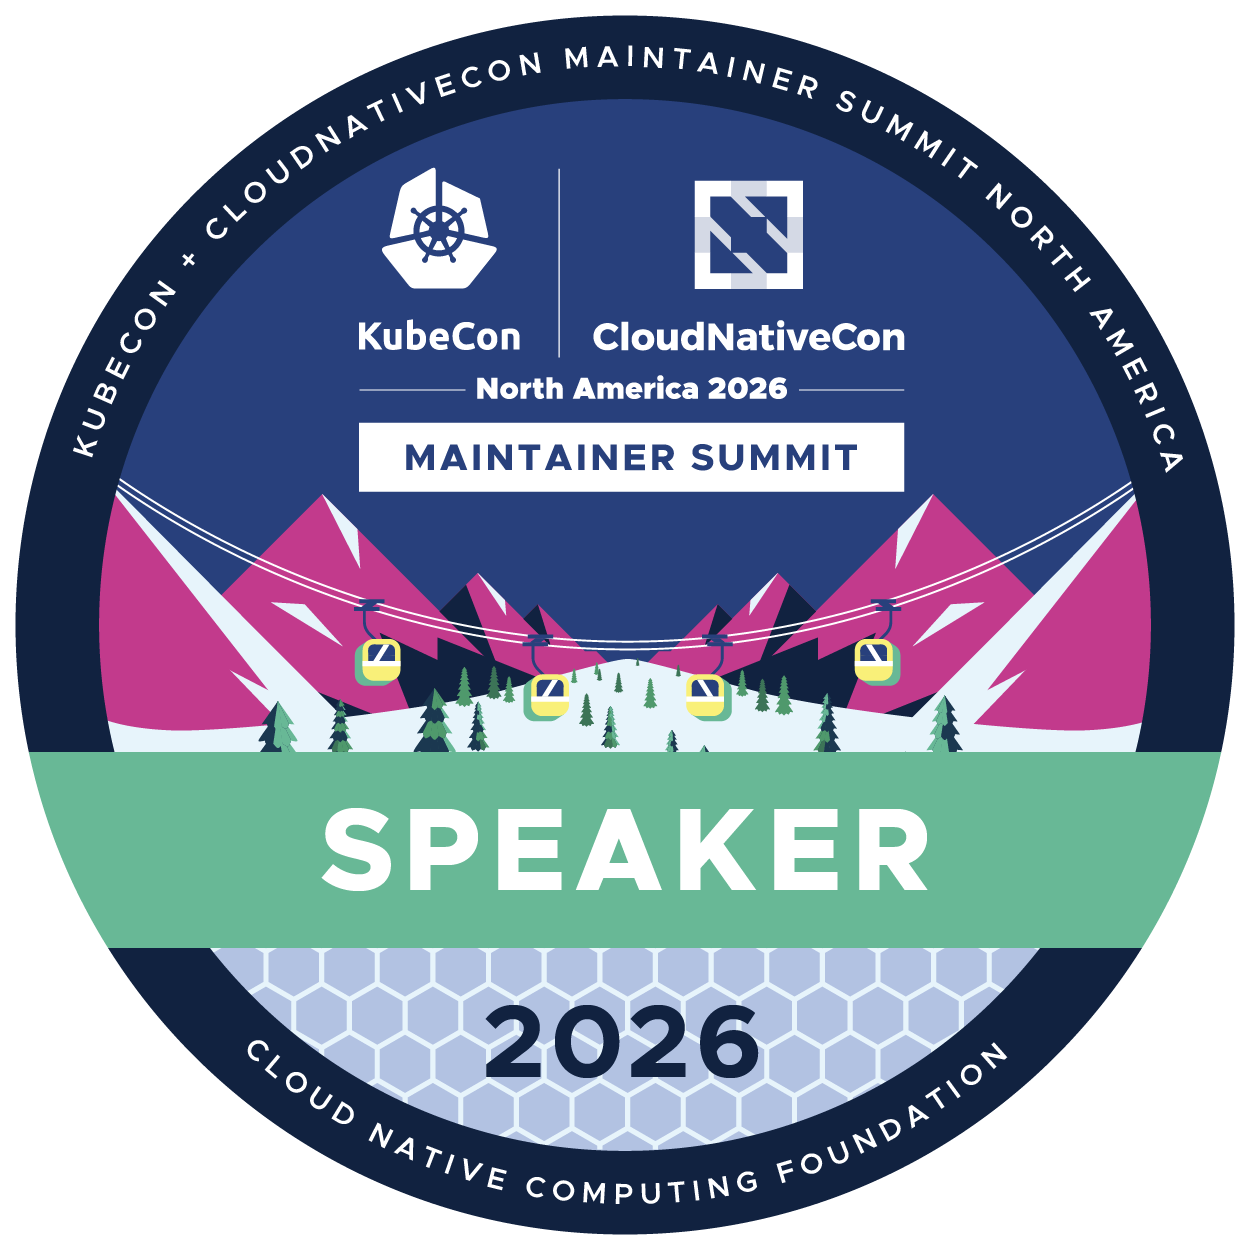
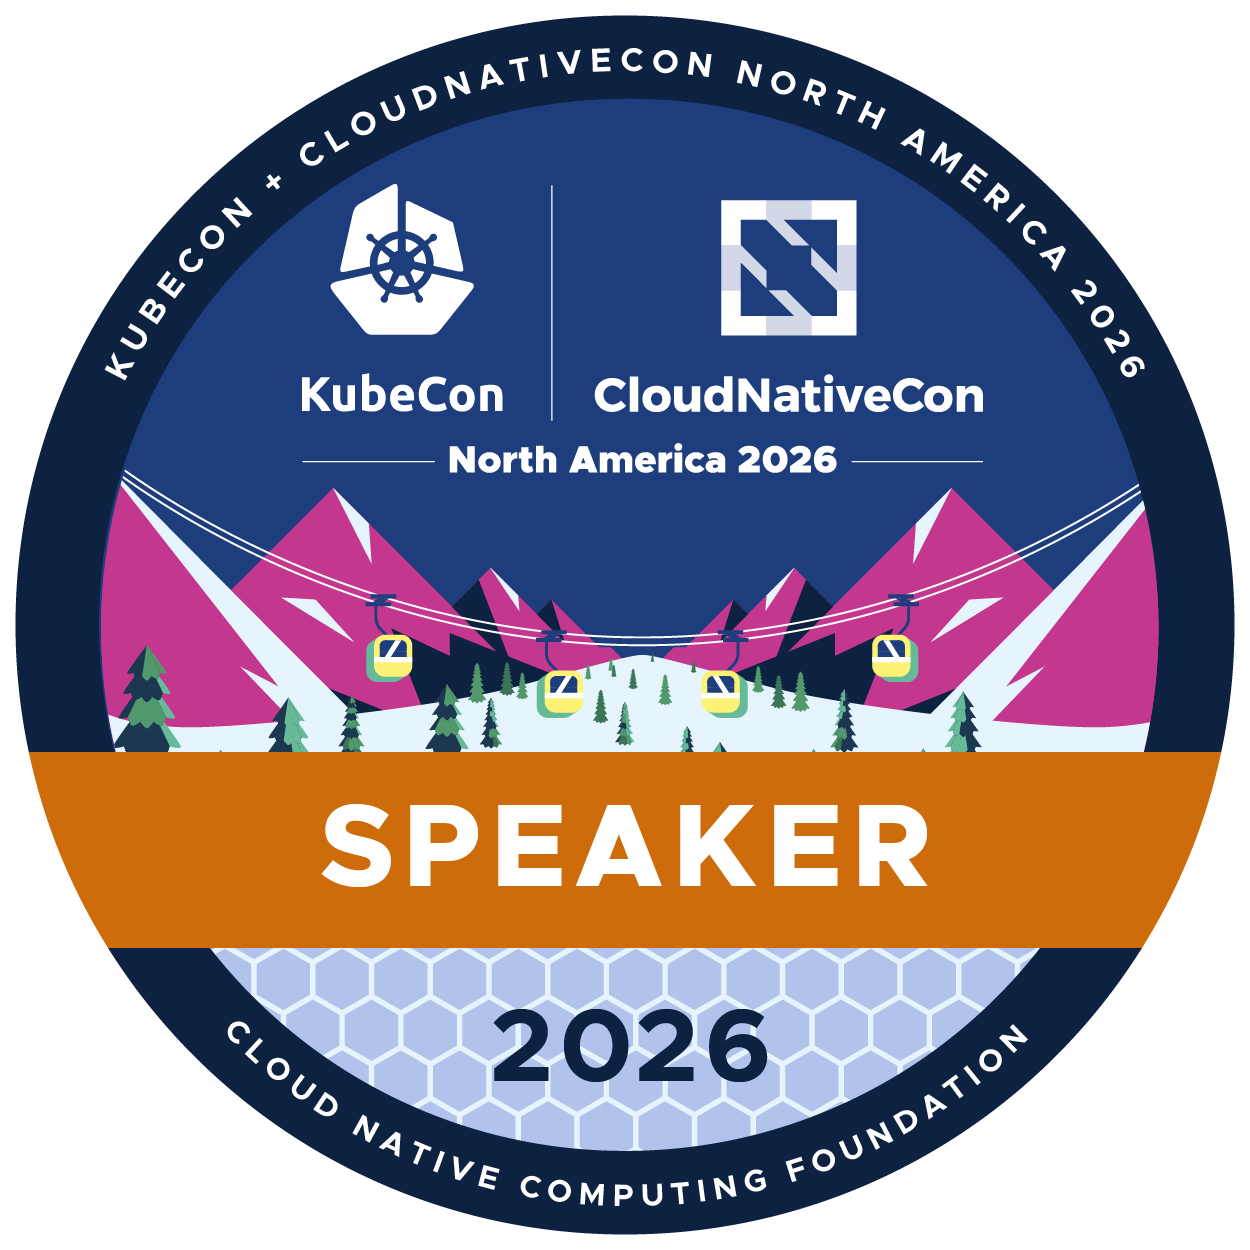
Add KubeCon NA 2026 speaker badge (#113)

Changed region(s): [[0.0, 0.0936, 0.9984, 0.9672], [0.0624, 0.0312, 0.6864, 0.3744]]

diff --git a/README.md b/README.md
@@ -6,7 +6,41 @@
 
 More info can be found in [my Community Activities](https://github.com/pacoxu/pacoxu/blob/master/CommunityActivities.md) and [my blogs](https://github.com/pacoxu/pacoxu/blob/master/blog-list.md)
 
-<a href="https://www.cncf.io/people/ambassadors/?_sft_lf-country=cn&amp;p=paco-xu&amp;_sf_s=paco+xu"><img alt="CNCF Ambassadors 2026-2028" src="images/cncf-ambassadors-2026-2028.png" width="120"></a> <img alt="KubeCon China 2024 Co-Chair" src="images/kubecon-china-2024-co-chair.png" width="120"> <img alt="KubeCon EU 2025 Track Chair" src="images/kubecon-eu-2025-track-chair.png" width="120"> <img alt="KubeCon NA 2024 Track Chair" src="images/kubecon-na-2024-track-chair.png" width="120"> <img alt="KubeCon NA 2026 Speaker" src="images/kubecon-na-2026-speaker.png" width="80"> <img alt="KubeCon China 2026 Speaker" src="images/kubecon-china-2026-speaker.png" width="80"> <img alt="KubeCon EU 2025 Speaker" src="images/kubecon-eu-2025-speaker.png" width="80"> <img alt="KubeCon China 2025 Speaker" src="images/kubecon-china-2025-speaker.png" width="80"> <img alt="KubeCon China 2024 Speaker" src="images/kubecon-china-2024-speaker.png" width="80"> <img alt="KubeCon EU 2024 Speaker" src="images/kubecon-eu-2024-speaker.png" width="80"> <img alt="KCD 2025 Hangzhou speaker" src="images/kcd-hangzhou-2025-speaker.png" width="80"> <img alt="KCD 2024 Shanghai speaker" src="images/kcd-shanghai-2024-speaker.png" width="80"> <img alt="KubeCon EU 2023 Speaker" src="images/kubecon-eu-2023-speaker.png" width="80"> <img alt="KubeCon China 2023 Speaker" src="images/kubecon-china-2023-speaker.png" width="80"> <img alt="KubeCon China 2021 Virtual Speaker" src="images/kubecon-china-2021-speaker.png" width="80"> <img alt="KubeCon Japan 2026 Program Committee" src="images/kubecon-japan-2026-program-committee.png" width="80"> <img alt="KubeCon EU 2026 Program Committee" src="images/kubecon-eu-2026-program-committee.png" width="80"> <img alt="KubeCon China 2025 Program Committee" src="images/kubecon-china-2025-program-committee.png" width="80"> <img alt="KubeCon NA 2025 Program Committee" src="images/kubecon-na-2025-program-committee.png" width="80"> <img alt="KubeCon Japan 2025 Program Committee" src="images/kubecon-japan-2025-program-committee.png" width="80"> <img alt="KubeCon EU 2024 Program Committee" src="images/kubecon-eu-2024-program-committee.png" width="80"> <img alt="KubeCon India 2024 Program Committee" src="images/kubecon-india-2024-program-committee.png" width="80"> <img alt="KubeCon China 2023 Program Committee" src="images/kubecon-china-2023-program-committee.png" width="80"> <img alt="KCD Chengdu 2022 Orginzer(Program Committee)" src="images/kcd-chengdu-2022-program-committee.png" width="80"> <img alt="LFAPAC Open Source Evangelist" src="images/lfapac-open-source-evangelist.png" width="80"> <img alt="LFC102: Inclusive Open Source Community Orientation" src="images/lfc102-community-orientation.png" width="80">
+<p>
+<a href="https://www.cncf.io/people/ambassadors/?_sft_lf-country=cn&amp;p=paco-xu&amp;_sf_s=paco+xu"><img alt="CNCF Ambassadors 2026-2028" src="images/cncf-ambassadors-2026-2028.png" width="120"></a>
+<img alt="KubeCon China 2024 Co-Chair" src="images/kubecon-china-2024-co-chair.png" width="120">
+<img alt="KubeCon EU 2025 Track Chair" src="images/kubecon-eu-2025-track-chair.png" width="120">
+<img alt="KubeCon NA 2024 Track Chair" src="images/kubecon-na-2024-track-chair.png" width="120">
+<img alt="KubeCon NA 2026 Speaker" src="images/kubecon-na-2026-speaker.png" width="80">
+<img alt="KubeCon China 2026 Speaker" src="images/kubecon-china-2026-speaker.png" width="80">
+<img alt="KubeCon Japan 2026 Program Committee" src="images/kubecon-japan-2026-program-committee.png" width="80">
+<img alt="KubeCon EU 2026 Program Committee" src="images/kubecon-eu-2026-program-committee.png" width="80">
+</p>
+
+<details>
+<summary>Other badges</summary>
+
+<p>
+<img alt="KubeCon EU 2025 Speaker" src="images/kubecon-eu-2025-speaker.png" width="80">
+<img alt="KubeCon China 2025 Speaker" src="images/kubecon-china-2025-speaker.png" width="80">
+<img alt="KubeCon China 2024 Speaker" src="images/kubecon-china-2024-speaker.png" width="80">
+<img alt="KubeCon EU 2024 Speaker" src="images/kubecon-eu-2024-speaker.png" width="80">
+<img alt="KCD 2025 Hangzhou speaker" src="images/kcd-hangzhou-2025-speaker.png" width="80">
+<img alt="KCD 2024 Shanghai speaker" src="images/kcd-shanghai-2024-speaker.png" width="80">
+<img alt="KubeCon EU 2023 Speaker" src="images/kubecon-eu-2023-speaker.png" width="80">
+<img alt="KubeCon China 2023 Speaker" src="images/kubecon-china-2023-speaker.png" width="80">
+<img alt="KubeCon China 2021 Virtual Speaker" src="images/kubecon-china-2021-speaker.png" width="80">
+<img alt="KubeCon China 2025 Program Committee" src="images/kubecon-china-2025-program-committee.png" width="80">
+<img alt="KubeCon NA 2025 Program Committee" src="images/kubecon-na-2025-program-committee.png" width="80">
+<img alt="KubeCon Japan 2025 Program Committee" src="images/kubecon-japan-2025-program-committee.png" width="80">
+<img alt="KubeCon EU 2024 Program Committee" src="images/kubecon-eu-2024-program-committee.png" width="80">
+<img alt="KubeCon India 2024 Program Committee" src="images/kubecon-india-2024-program-committee.png" width="80">
+<img alt="KubeCon China 2023 Program Committee" src="images/kubecon-china-2023-program-committee.png" width="80">
+<img alt="KCD Chengdu 2022 Orginzer(Program Committee)" src="images/kcd-chengdu-2022-program-committee.png" width="80">
+<img alt="LFAPAC Open Source Evangelist" src="images/lfapac-open-source-evangelist.png" width="80">
+<img alt="LFC102: Inclusive Open Source Community Orientation" src="images/lfc102-community-orientation.png" width="80">
+</p>
+</details>
 
 ## The repos I created
 

diff --git a/CommunityActivities.md b/CommunityActivities.md
@@ -9,7 +9,7 @@ Includes activities organization, speeches and Program Committees work.
     - 👥📋 KubeCon Japan(🇯🇵Yokohama) as Program Committee Member
     - 👥📋 [KubeCon + CloudNativeCon + OpenInfra Summit + PyTorch Conference China 2026](https://www.lfopensource.cn/kubecon-cloudnativecon-openinfra-summit-pytorch-conference-china/program/schedule/) as Program Committee Member and Speaker
       - 📺 [Kubernetes DRA Architecture: Scheduling, Status, and Topology at Scale](https://www.youtube.com/watch?v=XEv5c6p0Jx0&list=PLGcxfZT6qI-w&index=39) - Paco Xu, DaoCloud & Kang Zhang, NVIDIA
-    - 🎙 KubeCon North America 2026 (🇺🇸Salt Lake City):
+    - 🎙 KubeCon North America 2026 (🇺🇸Salt Lake City), my first talks in North America:
       - [Steering the Ship: Ask the Kubernetes Steering Committee](https://events.linuxfoundation.org/kubecon-cloudnativecon-north-america/program/schedule/?id=1289694)
       - [Explore TAG Workloads Foundation: Core Runtime, Batch Scheduling, and Moar](https://events.linuxfoundation.org/kubecon-cloudnativecon-north-america/program/schedule/?id=1289723)
   - 2025
